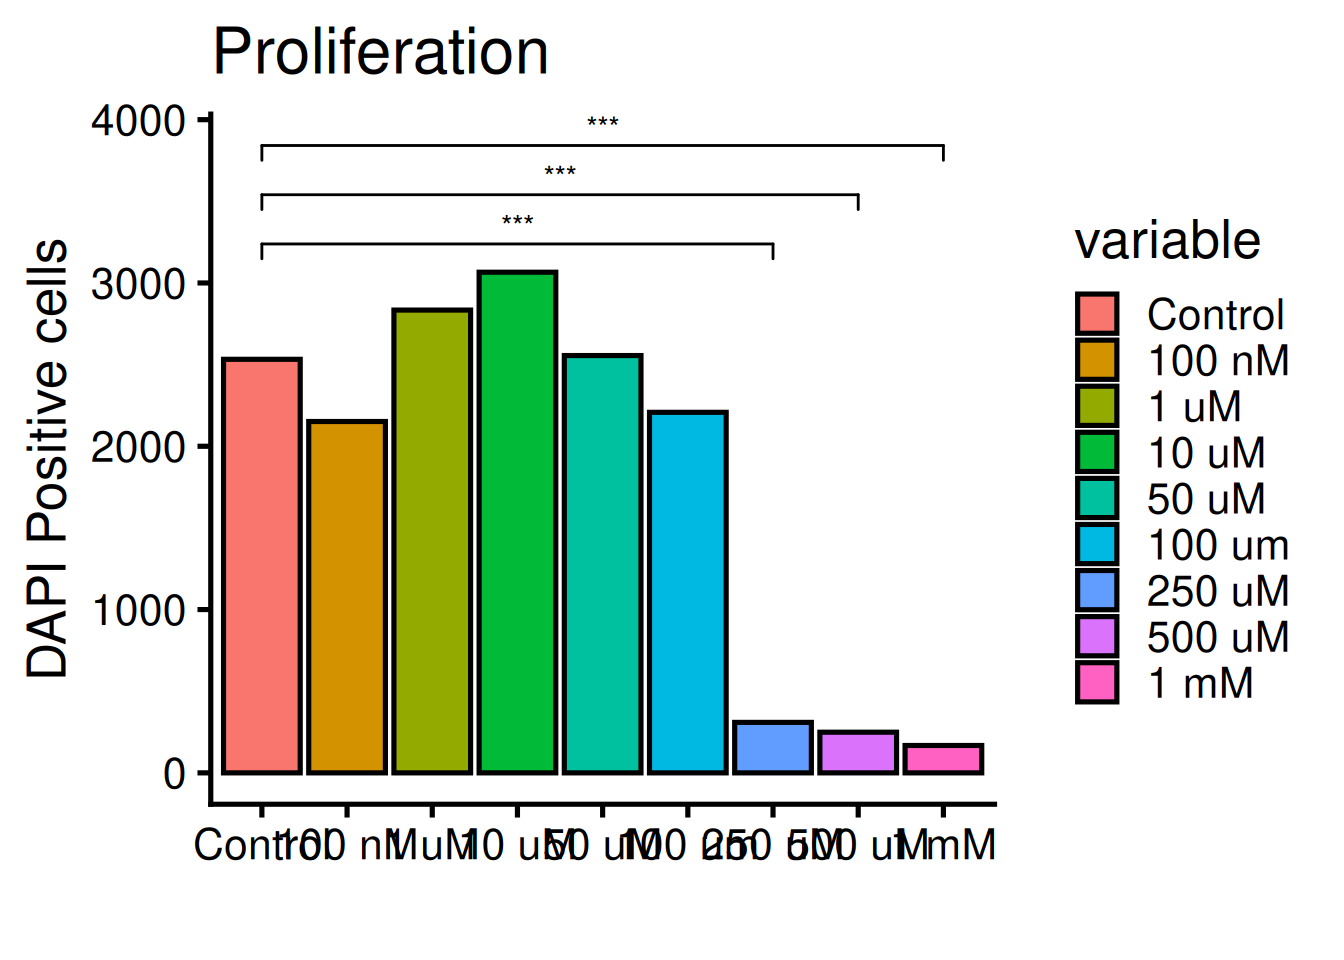
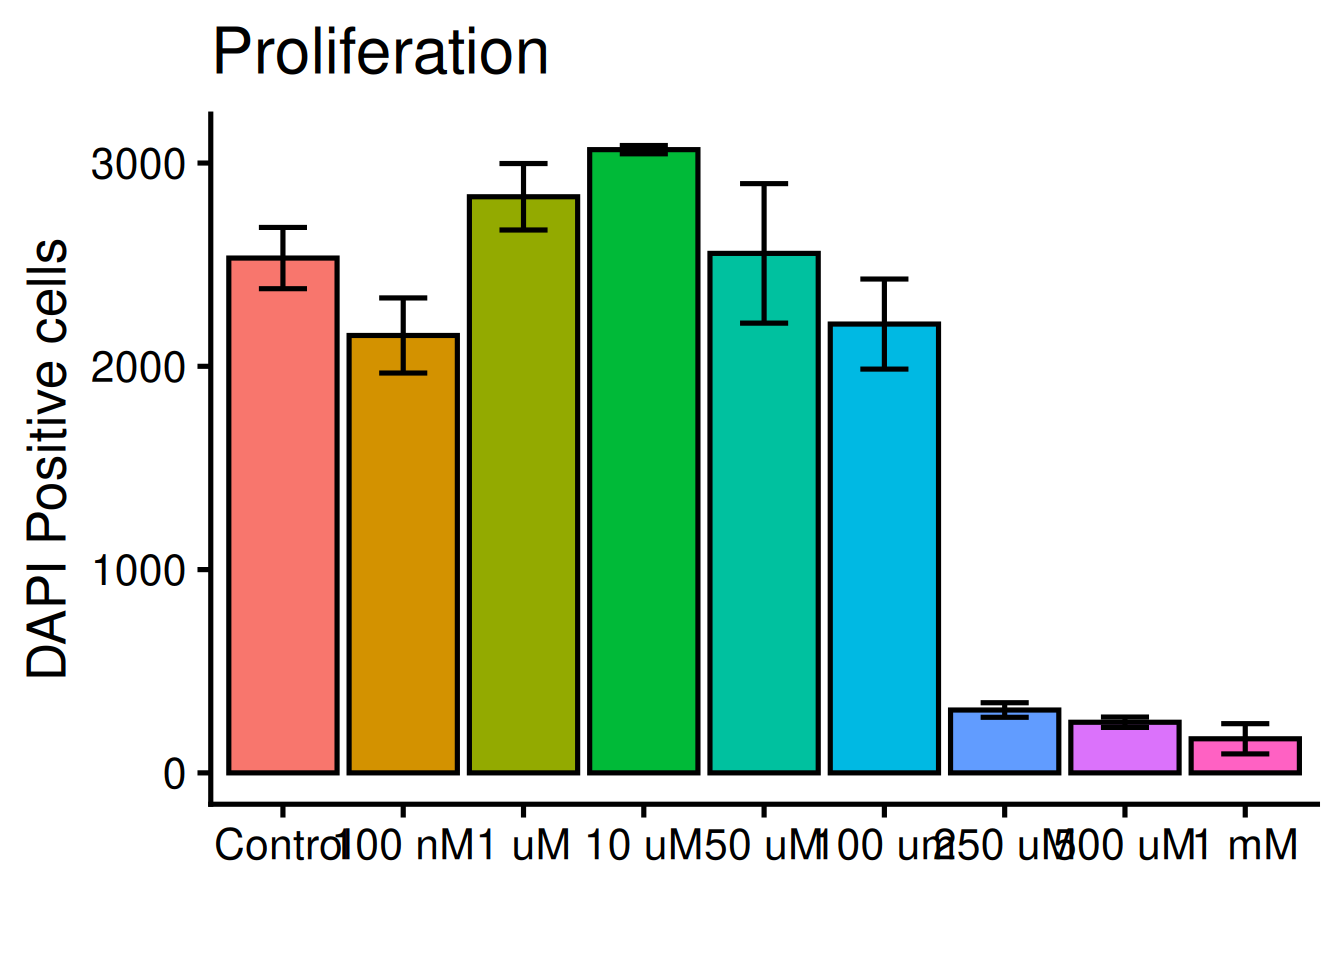
Built site for gh-pages

diff --git a/docs/anova.html b/docs/anova.html
@@ -291,21 +291,154 @@ pre > code.sourceCode > span > a:first-child::before { text-decoration: underlin
 <div id="callout-2" class="callout-2-contents callout-collapse collapse">
 <div class="callout-body-container callout-body">
 <p>All functions in R comes with documentation, where the function and all the arguments the function takes in are described. To open the documentation use the question mark <code>?</code> before the name of the function, like <code>?plot</code> will show:</p>
-<pre><code>plot                   package:base                    R Documentation
-
-Generic X-Y Plotting
-
-Description:
-
-     Generic function for plotting of R objects.
-
-     For simple scatter plots, ‘plot.default’ will be used.  However,
-     there are ‘plot’ methods for many R objects, including
-     ‘function’s, ‘data.frame’s, ‘density’ objects, etc.  Use
-     ‘methods(plot)’ and the documentation for these. Most of these
-     methods are implemented using traditional graphics (the ‘graphics’
-     package), but this is not mandatory.</code></pre>
+<div class="code-copy-outer-scaffold"><div class="sourceCode" id="cb8"><pre class="sourceCode yml code-with-copy"><code class="sourceCode yaml"><span id="cb8-1"><a href="#cb8-1" aria-hidden="true" tabindex="-1"></a><span class="at">plot                   package:base                    R Documentation</span></span>
+<span id="cb8-2"><a href="#cb8-2" aria-hidden="true" tabindex="-1"></a></span>
+<span id="cb8-3"><a href="#cb8-3" aria-hidden="true" tabindex="-1"></a><span class="at">Generic X-Y Plotting</span></span>
+<span id="cb8-4"><a href="#cb8-4" aria-hidden="true" tabindex="-1"></a></span>
+<span id="cb8-5"><a href="#cb8-5" aria-hidden="true" tabindex="-1"></a><span class="fu">Description</span><span class="kw">:</span></span>
+<span id="cb8-6"><a href="#cb8-6" aria-hidden="true" tabindex="-1"></a></span>
+<span id="cb8-7"><a href="#cb8-7" aria-hidden="true" tabindex="-1"></a><span class="at">     Generic function for plotting of R objects.</span></span>
+<span id="cb8-8"><a href="#cb8-8" aria-hidden="true" tabindex="-1"></a></span>
+<span id="cb8-9"><a href="#cb8-9" aria-hidden="true" tabindex="-1"></a><span class="at">     For simple scatter plots, ‘plot.default’ will be used.  However,</span></span>
+<span id="cb8-10"><a href="#cb8-10" aria-hidden="true" tabindex="-1"></a><span class="at">     there are ‘plot’ methods for many R objects, including</span></span>
+<span id="cb8-11"><a href="#cb8-11" aria-hidden="true" tabindex="-1"></a><span class="at">     ‘function’s, ‘data.frame’s, ‘density’ objects, etc.  Use</span></span>
+<span id="cb8-12"><a href="#cb8-12" aria-hidden="true" tabindex="-1"></a><span class="at">     ‘methods(plot)’ and the documentation for these. Most of these</span></span>
+<span id="cb8-13"><a href="#cb8-13" aria-hidden="true" tabindex="-1"></a><span class="at">     methods are implemented using traditional graphics (the ‘graphics’</span></span>
+<span id="cb8-14"><a href="#cb8-14" aria-hidden="true" tabindex="-1"></a><span class="at">     package), but this is not mandatory.</span></span></code></pre></div><button title="Copy to Clipboard" class="code-copy-button"><i class="bi"></i></button></div>
 <p>To exit the documentation, press <code>q</code>.</p>
+</div>
+</div>
+</div>
+<p>R comes with many packages to help customise plots. <a href="https://ggplot2.tidyverse.org/"><code>ggplot2</code></a> is the most popular one and builts on “layers” of geometic objects, called <code>geom</code>. The dataset is loaded via the <code>ggplot()</code> function and mapped via aesthetics (<code>aes</code>). Aesthetics contols x, y, outline colors, inside fill colors, sizes, shapes etc.</p>
+<p>Lets style the plot with <code>ggplot2</code>! Run the code below:</p>
+<div class="cell">
+<div class="code-copy-outer-scaffold"><div class="sourceCode cell-code" id="cb9"><pre class="sourceCode r code-with-copy"><code class="sourceCode r"><span id="cb9-1"><a href="#cb9-1" aria-hidden="true" tabindex="-1"></a><span class="co"># Ones per machine</span></span>
+<span id="cb9-2"><a href="#cb9-2" aria-hidden="true" tabindex="-1"></a><span class="co">#install.packages("ggplot2")</span></span>
+<span id="cb9-3"><a href="#cb9-3" aria-hidden="true" tabindex="-1"></a></span>
+<span id="cb9-4"><a href="#cb9-4" aria-hidden="true" tabindex="-1"></a><span class="co"># Every R sessoin</span></span>
+<span id="cb9-5"><a href="#cb9-5" aria-hidden="true" tabindex="-1"></a><span class="fu">library</span>(ggplot2)</span>
+<span id="cb9-6"><a href="#cb9-6" aria-hidden="true" tabindex="-1"></a></span>
+<span id="cb9-7"><a href="#cb9-7" aria-hidden="true" tabindex="-1"></a><span class="fu">ggplot</span>(dat, <span class="fu">aes</span>(<span class="at">x =</span> variable, <span class="at">y =</span> value, <span class="at">fill =</span> variable)) <span class="sc">+</span></span>
+<span id="cb9-8"><a href="#cb9-8" aria-hidden="true" tabindex="-1"></a>  <span class="fu">geom_bar</span>(<span class="at">fun =</span> <span class="st">"mean"</span>, <span class="at">stat =</span> <span class="st">"summary"</span>, <span class="at">color =</span> <span class="st">"black"</span>) <span class="sc">+</span></span>
+<span id="cb9-9"><a href="#cb9-9" aria-hidden="true" tabindex="-1"></a>  <span class="fu">theme_classic</span>(<span class="at">base_size =</span> <span class="dv">20</span>) <span class="sc">+</span></span>
+<span id="cb9-10"><a href="#cb9-10" aria-hidden="true" tabindex="-1"></a>  <span class="fu">labs</span>(</span>
+<span id="cb9-11"><a href="#cb9-11" aria-hidden="true" tabindex="-1"></a>    <span class="at">title =</span> <span class="st">"Proliferation"</span>,</span>
+<span id="cb9-12"><a href="#cb9-12" aria-hidden="true" tabindex="-1"></a>    <span class="at">x =</span> <span class="st">""</span>,</span>
+<span id="cb9-13"><a href="#cb9-13" aria-hidden="true" tabindex="-1"></a>    <span class="at">y =</span> <span class="st">"DAPI Positive cells"</span>)</span></code></pre></div><button title="Copy to Clipboard" class="code-copy-button"><i class="bi"></i></button></div>
+<div class="cell-output cell-output-stderr">
+<pre><code>Warning: Removed 2 rows containing non-finite outside the scale range
+(`stat_summary()`).</code></pre>
+</div>
+<div class="cell-output-display">
+<div>
+<figure class="figure">
+<p><img src="anova_files/figure-html/unnamed-chunk-5-1.png" class="img-fluid figure-img" width="672"></p>
+</figure>
+</div>
+</div>
+</div>
+<p>The legend is not needed, remove it with <code>theme(legend.position = "none")</code>:</p>
+<div class="cell">
+<div class="code-copy-outer-scaffold"><div class="sourceCode cell-code" id="cb11"><pre class="sourceCode r code-with-copy"><code class="sourceCode r"><span id="cb11-1"><a href="#cb11-1" aria-hidden="true" tabindex="-1"></a><span class="fu">ggplot</span>(dat, <span class="fu">aes</span>(<span class="at">x =</span> variable, <span class="at">y =</span> value, <span class="at">fill =</span> variable)) <span class="sc">+</span></span>
+<span id="cb11-2"><a href="#cb11-2" aria-hidden="true" tabindex="-1"></a>  <span class="fu">geom_bar</span>(<span class="at">fun =</span> <span class="st">"mean"</span>, <span class="at">stat =</span> <span class="st">"summary"</span>, <span class="at">color =</span> <span class="st">"black"</span>) <span class="sc">+</span></span>
+<span id="cb11-3"><a href="#cb11-3" aria-hidden="true" tabindex="-1"></a>  <span class="fu">theme_classic</span>(<span class="at">base_size =</span> <span class="dv">20</span>) <span class="sc">+</span></span>
+<span id="cb11-4"><a href="#cb11-4" aria-hidden="true" tabindex="-1"></a>  </span>
+<span id="cb11-5"><a href="#cb11-5" aria-hidden="true" tabindex="-1"></a>  <span class="fu">theme</span>(<span class="at">legend.position =</span> <span class="st">"none"</span>) <span class="sc">+</span> <span class="co"># default: legend.position = "right"</span></span>
+<span id="cb11-6"><a href="#cb11-6" aria-hidden="true" tabindex="-1"></a>  </span>
+<span id="cb11-7"><a href="#cb11-7" aria-hidden="true" tabindex="-1"></a>  <span class="fu">labs</span>(</span>
+<span id="cb11-8"><a href="#cb11-8" aria-hidden="true" tabindex="-1"></a>    <span class="at">title =</span> <span class="st">"Proliferation"</span>,</span>
+<span id="cb11-9"><a href="#cb11-9" aria-hidden="true" tabindex="-1"></a>    <span class="at">x =</span> <span class="st">""</span>,</span>
+<span id="cb11-10"><a href="#cb11-10" aria-hidden="true" tabindex="-1"></a>    <span class="at">y =</span> <span class="st">"DAPI Positive cells"</span>)</span></code></pre></div><button title="Copy to Clipboard" class="code-copy-button"><i class="bi"></i></button></div>
+<div class="cell-output cell-output-stderr">
+<pre><code>Warning: Removed 2 rows containing non-finite outside the scale range
+(`stat_summary()`).</code></pre>
+</div>
+<div class="cell-output-display">
+<div>
+<figure class="figure">
+<p><img src="anova_files/figure-html/unnamed-chunk-6-1.png" class="img-fluid figure-img" width="672"></p>
+</figure>
+</div>
+</div>
+</div>
+<p>We need to add “whiskers” to the plot, which shows mean +/- standard deviation, i.e the variance. Use <code>geom_errorbar</code>:</p>
+<div class="cell">
+<div class="code-copy-outer-scaffold"><div class="sourceCode cell-code" id="cb13"><pre class="sourceCode r code-with-copy"><code class="sourceCode r"><span id="cb13-1"><a href="#cb13-1" aria-hidden="true" tabindex="-1"></a><span class="fu">ggplot</span>(dat, <span class="fu">aes</span>(<span class="at">x =</span> variable, <span class="at">y =</span> value, <span class="at">fill =</span> variable)) <span class="sc">+</span></span>
+<span id="cb13-2"><a href="#cb13-2" aria-hidden="true" tabindex="-1"></a>  <span class="fu">geom_bar</span>(<span class="at">fun =</span> <span class="st">"mean"</span>, <span class="at">stat =</span> <span class="st">"summary"</span>, <span class="at">color =</span> <span class="st">"black"</span>) <span class="sc">+</span></span>
+<span id="cb13-3"><a href="#cb13-3" aria-hidden="true" tabindex="-1"></a>  </span>
+<span id="cb13-4"><a href="#cb13-4" aria-hidden="true" tabindex="-1"></a>  <span class="fu">geom_errorbar</span>(</span>
+<span id="cb13-5"><a href="#cb13-5" aria-hidden="true" tabindex="-1"></a>    <span class="at">stat =</span> <span class="st">"summary"</span>,                                               <span class="co"># calculated on each group</span></span>
+<span id="cb13-6"><a href="#cb13-6" aria-hidden="true" tabindex="-1"></a>    <span class="at">fun.min =</span> <span class="cf">function</span>(x) <span class="fu">mean</span>(x) <span class="sc">-</span> <span class="fu">sd</span>(x),  <span class="co"># bottom whisker</span></span>
+<span id="cb13-7"><a href="#cb13-7" aria-hidden="true" tabindex="-1"></a>    <span class="at">fun.max =</span> <span class="cf">function</span>(x) <span class="fu">mean</span>(x) <span class="sc">+</span> <span class="fu">sd</span>(x),  <span class="co"># top whisker</span></span>
+<span id="cb13-8"><a href="#cb13-8" aria-hidden="true" tabindex="-1"></a>    <span class="at">width =</span> <span class="fl">0.4</span>) <span class="sc">+</span>                                                  <span class="co"># width of whiskars</span></span>
+<span id="cb13-9"><a href="#cb13-9" aria-hidden="true" tabindex="-1"></a>  </span>
+<span id="cb13-10"><a href="#cb13-10" aria-hidden="true" tabindex="-1"></a>  <span class="fu">theme_classic</span>(<span class="at">base_size =</span> <span class="dv">20</span>) <span class="sc">+</span></span>
+<span id="cb13-11"><a href="#cb13-11" aria-hidden="true" tabindex="-1"></a>  <span class="fu">theme</span>(<span class="at">legend.position =</span> <span class="st">"none"</span>) <span class="sc">+</span></span>
+<span id="cb13-12"><a href="#cb13-12" aria-hidden="true" tabindex="-1"></a>  <span class="fu">labs</span>(</span>
+<span id="cb13-13"><a href="#cb13-13" aria-hidden="true" tabindex="-1"></a>    <span class="at">title =</span> <span class="st">"Proliferation"</span>,</span>
+<span id="cb13-14"><a href="#cb13-14" aria-hidden="true" tabindex="-1"></a>    <span class="at">x =</span> <span class="st">""</span>,</span>
+<span id="cb13-15"><a href="#cb13-15" aria-hidden="true" tabindex="-1"></a>    <span class="at">y =</span> <span class="st">"DAPI Positive cells"</span>)</span></code></pre></div><button title="Copy to Clipboard" class="code-copy-button"><i class="bi"></i></button></div>
+<div class="cell-output cell-output-stderr">
+<pre><code>Warning: Removed 2 rows containing non-finite outside the scale range
+(`stat_summary()`).
+Removed 2 rows containing non-finite outside the scale range
+(`stat_summary()`).</code></pre>
+</div>
+<div class="cell-output-display">
+<div>
+<figure class="figure">
+<p><img src="anova_files/figure-html/unnamed-chunk-7-1.png" class="img-fluid figure-img" width="672"></p>
+</figure>
+</div>
+</div>
+</div>
+<p>Tilt the x-axis text 45 degress. <code>theme</code> holds all arguments for the plots general appearence:</p>
+<div class="callout callout-style-default callout-tip callout-titled" title="theme documentation">
+<div class="callout-header d-flex align-content-center collapsed" data-bs-toggle="collapse" data-bs-target=".callout-3-contents" aria-controls="callout-3" aria-expanded="false" aria-label="Toggle callout">
+<div class="callout-icon-container">
+<i class="callout-icon"></i>
+</div>
+<div class="callout-title-container flex-fill">
+<span class="screen-reader-only">Tip</span>theme documentation
+</div>
+<div class="callout-btn-toggle d-inline-block border-0 py-1 ps-1 pe-0 float-end"><i class="callout-toggle"></i></div>
+</div>
+<div id="callout-3" class="callout-3-contents callout-collapse collapse">
+<div class="callout-body-container callout-body">
+<p>Check the doumentation: <code>?theme</code></p>
+<p>Close with <code>q</code>.</p>
+</div>
+</div>
+</div>
+<div class="cell">
+<div class="code-copy-outer-scaffold"><div class="sourceCode cell-code" id="cb15"><pre class="sourceCode r code-with-copy"><code class="sourceCode r"><span id="cb15-1"><a href="#cb15-1" aria-hidden="true" tabindex="-1"></a><span class="fu">ggplot</span>(dat, <span class="fu">aes</span>(<span class="at">x =</span> variable, <span class="at">y =</span> value, <span class="at">fill =</span> variable)) <span class="sc">+</span></span>
+<span id="cb15-2"><a href="#cb15-2" aria-hidden="true" tabindex="-1"></a>  <span class="fu">geom_bar</span>(<span class="at">fun =</span> <span class="st">"mean"</span>, <span class="at">stat =</span> <span class="st">"summary"</span>, <span class="at">color =</span> <span class="st">"black"</span>) <span class="sc">+</span></span>
+<span id="cb15-3"><a href="#cb15-3" aria-hidden="true" tabindex="-1"></a>  <span class="fu">geom_errorbar</span>(</span>
+<span id="cb15-4"><a href="#cb15-4" aria-hidden="true" tabindex="-1"></a>    <span class="at">stat =</span> <span class="st">"summary"</span>,</span>
+<span id="cb15-5"><a href="#cb15-5" aria-hidden="true" tabindex="-1"></a>    <span class="at">fun.min =</span> <span class="cf">function</span>(x) <span class="fu">mean</span>(x) <span class="sc">-</span> <span class="fu">sd</span>(x),</span>
+<span id="cb15-6"><a href="#cb15-6" aria-hidden="true" tabindex="-1"></a>    <span class="at">fun.max =</span> <span class="cf">function</span>(x) <span class="fu">mean</span>(x) <span class="sc">+</span> <span class="fu">sd</span>(x),</span>
+<span id="cb15-7"><a href="#cb15-7" aria-hidden="true" tabindex="-1"></a>    <span class="at">width =</span> <span class="fl">0.4</span>) <span class="sc">+</span> </span>
+<span id="cb15-8"><a href="#cb15-8" aria-hidden="true" tabindex="-1"></a>  <span class="fu">theme_classic</span>(<span class="at">base_size =</span> <span class="dv">18</span>) <span class="sc">+</span></span>
+<span id="cb15-9"><a href="#cb15-9" aria-hidden="true" tabindex="-1"></a>  </span>
+<span id="cb15-10"><a href="#cb15-10" aria-hidden="true" tabindex="-1"></a>  <span class="fu">theme</span>(</span>
+<span id="cb15-11"><a href="#cb15-11" aria-hidden="true" tabindex="-1"></a>    <span class="at">legend.position =</span> <span class="st">"none"</span>,</span>
+<span id="cb15-12"><a href="#cb15-12" aria-hidden="true" tabindex="-1"></a>    <span class="at">axis.text.x =</span> <span class="fu">element_text</span>(<span class="at">angle =</span> <span class="dv">45</span>, <span class="at">hjust =</span> <span class="dv">1</span>)) <span class="sc">+</span> <span class="co"># hjust = right-justifed</span></span>
+<span id="cb15-13"><a href="#cb15-13" aria-hidden="true" tabindex="-1"></a>  </span>
+<span id="cb15-14"><a href="#cb15-14" aria-hidden="true" tabindex="-1"></a>  <span class="fu">labs</span>(</span>
+<span id="cb15-15"><a href="#cb15-15" aria-hidden="true" tabindex="-1"></a>    <span class="at">title =</span> <span class="st">"Proliferation"</span>,</span>
+<span id="cb15-16"><a href="#cb15-16" aria-hidden="true" tabindex="-1"></a>    <span class="at">x =</span> <span class="st">""</span>,</span>
+<span id="cb15-17"><a href="#cb15-17" aria-hidden="true" tabindex="-1"></a>    <span class="at">y =</span> <span class="st">"DAPI Positive cells"</span>)</span></code></pre></div><button title="Copy to Clipboard" class="code-copy-button"><i class="bi"></i></button></div>
+<div class="cell-output cell-output-stderr">
+<pre><code>Warning: Removed 2 rows containing non-finite outside the scale range
+(`stat_summary()`).
+Removed 2 rows containing non-finite outside the scale range
+(`stat_summary()`).</code></pre>
+</div>
+<div class="cell-output-display">
+<div>
+<figure class="figure">
+<p><img src="anova_files/figure-html/unnamed-chunk-8-1.png" class="img-fluid figure-img" width="672"></p>
+</figure>
 </div>
 </div>
 </div>
@@ -313,8 +446,8 @@ Description:
 <h3 class="anchored" data-anchor-id="statistics">Statistics</h3>
 <p>Lets compare the group means of the different doses to see if there is any significant differences! An Analysis of Variance (ANOVA) analysis will tells us if there is a difference between the tested groups, but not between which. For this we run a <em>post-hoc</em> (lat. after this) test. Since our tested groups are of <strong>unequal</strong> size we apply the Tukey-Kramer test. The group distribution can be seen with the <a href="https://www.rdocumentation.org/packages/base/versions/3.6.2/topics/table"><code>table()</code></a> function which builts a <a href="https://en.wikipedia.org/wiki/Contingency_table">contingency table</a>.</p>
 <div class="cell">
-<div class="code-copy-outer-scaffold"><div class="sourceCode cell-code" id="cb9"><pre class="sourceCode r code-with-copy"><code class="sourceCode r"><span id="cb9-1"><a href="#cb9-1" aria-hidden="true" tabindex="-1"></a><span class="co"># Check group sizes</span></span>
-<span id="cb9-2"><a href="#cb9-2" aria-hidden="true" tabindex="-1"></a><span class="fu">table</span>(dat<span class="sc">$</span>variable)</span></code></pre></div><button title="Copy to Clipboard" class="code-copy-button"><i class="bi"></i></button></div>
+<div class="code-copy-outer-scaffold"><div class="sourceCode cell-code" id="cb17"><pre class="sourceCode r code-with-copy"><code class="sourceCode r"><span id="cb17-1"><a href="#cb17-1" aria-hidden="true" tabindex="-1"></a><span class="co"># Check group sizes</span></span>
+<span id="cb17-2"><a href="#cb17-2" aria-hidden="true" tabindex="-1"></a><span class="fu">table</span>(dat<span class="sc">$</span>variable)</span></code></pre></div><button title="Copy to Clipboard" class="code-copy-button"><i class="bi"></i></button></div>
 <div class="cell-output cell-output-stdout">
 <pre><code>
 Control  100 nM    1 uM   10 uM   50 uM  100 um  250 uM  500 uM    1 mM 
@@ -332,51 +465,8 @@ Control  100 nM    1 uM   10 uM   50 uM  100 um  250 uM  500 uM    1 mM
 <p>You want all pairwise mean comparisons</p>
 <p>Group sizes are unequal (unbalanced design)</p>
 <p>Tukey–Kramer is essentially Tukey’s method generalized to unequal n’s, keeping FWER controlled across all pairs.</p>
-<div class="cell">
-<div class="code-copy-outer-scaffold"><div class="sourceCode cell-code" id="cb11"><pre class="sourceCode r code-with-copy"><code class="sourceCode r"><span id="cb11-1"><a href="#cb11-1" aria-hidden="true" tabindex="-1"></a><span class="co">#control &lt;- subset(a, variable == "Control")$value</span></span>
-<span id="cb11-2"><a href="#cb11-2" aria-hidden="true" tabindex="-1"></a><span class="co">#dose250um &lt;- subset(a, variable == "250 uM")$value</span></span>
-<span id="cb11-3"><a href="#cb11-3" aria-hidden="true" tabindex="-1"></a></span>
-<span id="cb11-4"><a href="#cb11-4" aria-hidden="true" tabindex="-1"></a><span class="co">#t.test(control, dose250um)</span></span>
-<span id="cb11-5"><a href="#cb11-5" aria-hidden="true" tabindex="-1"></a></span>
-<span id="cb11-6"><a href="#cb11-6" aria-hidden="true" tabindex="-1"></a><span class="fu">library</span>(ggplot2)</span>
-<span id="cb11-7"><a href="#cb11-7" aria-hidden="true" tabindex="-1"></a><span class="fu">library</span>(ggsignif)</span>
-<span id="cb11-8"><a href="#cb11-8" aria-hidden="true" tabindex="-1"></a></span>
-<span id="cb11-9"><a href="#cb11-9" aria-hidden="true" tabindex="-1"></a><span class="fu">ggplot</span>(dat, <span class="fu">aes</span>(<span class="at">x =</span> variable, <span class="at">y =</span> value, <span class="at">fill =</span> variable)) <span class="sc">+</span></span>
-<span id="cb11-10"><a href="#cb11-10" aria-hidden="true" tabindex="-1"></a>  <span class="co">#geom_boxplot() +</span></span>
-<span id="cb11-11"><a href="#cb11-11" aria-hidden="true" tabindex="-1"></a>  <span class="fu">geom_bar</span>(<span class="at">fun =</span> <span class="st">"mean"</span>, <span class="at">stat =</span> <span class="st">"summary"</span>, <span class="at">color =</span> <span class="st">"black"</span>) <span class="sc">+</span></span>
-<span id="cb11-12"><a href="#cb11-12" aria-hidden="true" tabindex="-1"></a>  <span class="fu">geom_signif</span>(</span>
-<span id="cb11-13"><a href="#cb11-13" aria-hidden="true" tabindex="-1"></a>    <span class="at">test =</span> <span class="st">"t.test"</span>,</span>
-<span id="cb11-14"><a href="#cb11-14" aria-hidden="true" tabindex="-1"></a>    <span class="at">comparisons =</span> <span class="fu">list</span>(</span>
-<span id="cb11-15"><a href="#cb11-15" aria-hidden="true" tabindex="-1"></a>      <span class="fu">c</span>(<span class="st">"Control"</span>, <span class="st">"250 uM"</span>),</span>
-<span id="cb11-16"><a href="#cb11-16" aria-hidden="true" tabindex="-1"></a>      <span class="fu">c</span>(<span class="st">"Control"</span>, <span class="st">"500 uM"</span>),</span>
-<span id="cb11-17"><a href="#cb11-17" aria-hidden="true" tabindex="-1"></a>      <span class="fu">c</span>(<span class="st">"Control"</span>, <span class="st">"1 mM"</span>)),</span>
-<span id="cb11-18"><a href="#cb11-18" aria-hidden="true" tabindex="-1"></a>    <span class="at">map_signif_level =</span> <span class="cn">TRUE</span>,</span>
-<span id="cb11-19"><a href="#cb11-19" aria-hidden="true" tabindex="-1"></a>    <span class="at">step_increase =</span> <span class="fl">0.1</span>) <span class="sc">+</span></span>
-<span id="cb11-20"><a href="#cb11-20" aria-hidden="true" tabindex="-1"></a>  <span class="co">#scale_y_log10() +</span></span>
-<span id="cb11-21"><a href="#cb11-21" aria-hidden="true" tabindex="-1"></a>  <span class="fu">theme_classic</span>(<span class="at">base_size =</span> <span class="dv">20</span>) <span class="sc">+</span></span>
-<span id="cb11-22"><a href="#cb11-22" aria-hidden="true" tabindex="-1"></a>  <span class="co">#scale_fill_grey() +</span></span>
-<span id="cb11-23"><a href="#cb11-23" aria-hidden="true" tabindex="-1"></a>  <span class="fu">labs</span>(</span>
-<span id="cb11-24"><a href="#cb11-24" aria-hidden="true" tabindex="-1"></a>    <span class="at">title =</span> <span class="st">"Proliferation"</span>,</span>
-<span id="cb11-25"><a href="#cb11-25" aria-hidden="true" tabindex="-1"></a>    <span class="at">x =</span> <span class="st">""</span>,</span>
-<span id="cb11-26"><a href="#cb11-26" aria-hidden="true" tabindex="-1"></a>    <span class="at">y =</span> <span class="st">"DAPI Positive cells"</span>)</span></code></pre></div><button title="Copy to Clipboard" class="code-copy-button"><i class="bi"></i></button></div>
-<div class="cell-output cell-output-stderr">
-<pre><code>Warning: Removed 2 rows containing non-finite outside the scale range
-(`stat_summary()`).</code></pre>
-</div>
-<div class="cell-output cell-output-stderr">
-<pre><code>Warning: Removed 2 rows containing non-finite outside the scale range
-(`stat_signif()`).</code></pre>
-</div>
-<div class="cell-output-display">
-<div>
-<figure class="figure">
-<p><img src="anova_files/figure-html/unnamed-chunk-7-1.png" class="img-fluid figure-img" width="672"></p>
-</figure>
-</div>
-</div>
-</div>
 <div class="callout callout-style-default callout-note callout-titled">
-<div class="callout-header d-flex align-content-center collapsed" data-bs-toggle="collapse" data-bs-target=".callout-3-contents" aria-controls="callout-3" aria-expanded="false" aria-label="Toggle callout">
+<div class="callout-header d-flex align-content-center collapsed" data-bs-toggle="collapse" data-bs-target=".callout-4-contents" aria-controls="callout-4" aria-expanded="false" aria-label="Toggle callout">
 <div class="callout-icon-container">
 <i class="callout-icon"></i>
 </div>
@@ -385,7 +475,7 @@ Control  100 nM    1 uM   10 uM   50 uM  100 um  250 uM  500 uM    1 mM
 </div>
 <div class="callout-btn-toggle d-inline-block border-0 py-1 ps-1 pe-0 float-end"><i class="callout-toggle"></i></div>
 </div>
-<div id="callout-3" class="callout-3-contents callout-collapse collapse">
+<div id="callout-4" class="callout-4-contents callout-collapse collapse">
 <div class="callout-body-container callout-body">
 <ul>
 <li><a href="https://scibrief.blog/tukey-kramer-r">ANOVA and Tukey Kramer posthoc test</a></li>
